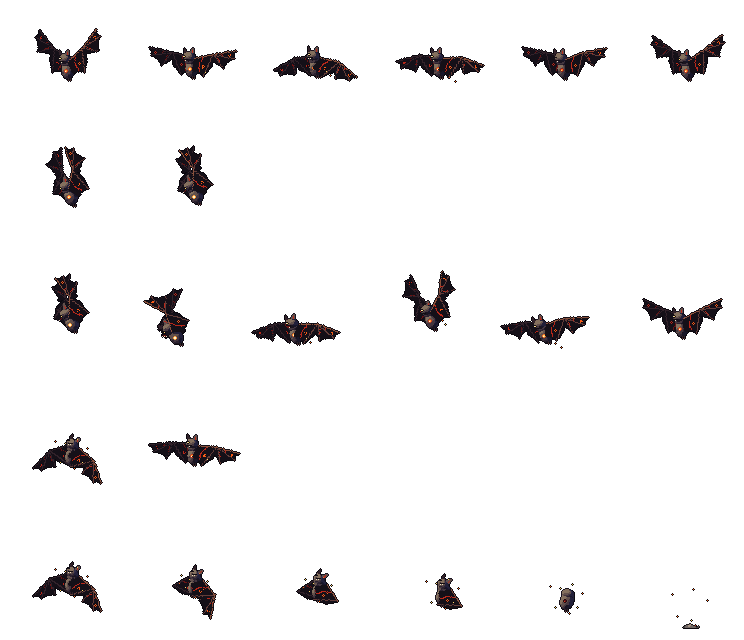
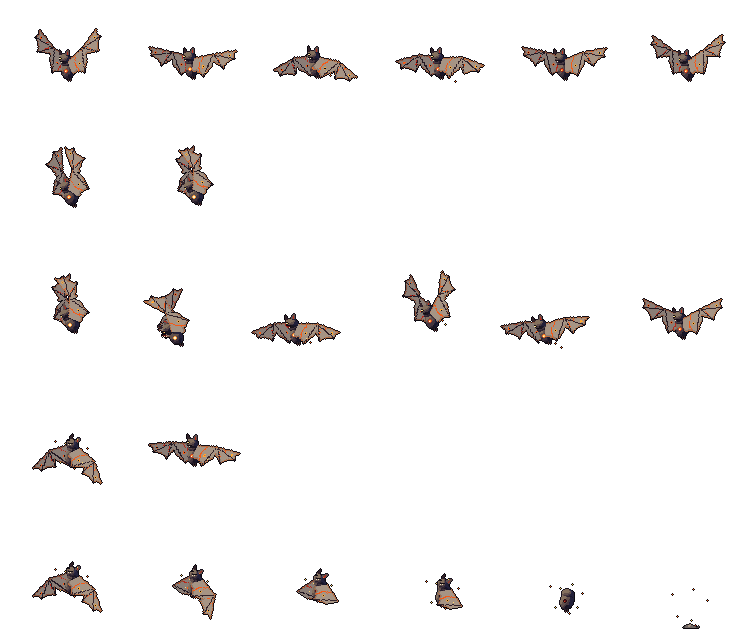
art: F2-CRIA3 — murciélago de ceniza legible y puente al segundo reposo de la heroína
- cinder_bat: membrana en rampa de ceniza (pasos 7–8), canto cobrizo de 1 px y vetas de brasa emisiva; cuerpo
  y dedos oscuros. Contraste mínimo en 8 salas: 0,000–0,075 → 0,125–0,170. Saturación frente a flame_moth:
  0,18 / 0,56 (se distinguen en el mismo encuentro). Decisión de dirección: ceniza, no cuero cálido.
- fogonera: shoulder_in / shoulder_out (2 f) para _bridge(); deja de usarse windup. 74 px + moño.
Evidencia y diario en docs/reviews/v04/personajes/f2_cria3/.

Claude-Session: https://claude.ai/code/session_01QNUS8YfdZMMBUQPTLseeFn

diff --git a/docs/reviews/v04/personajes/f2_cria3/diario.md b/docs/reviews/v04/personajes/f2_cria3/diario.md
@@ -1,0 +1,81 @@
+# F2-CRIA3 · Diario (C13 `cinder_bat` contra la sala, C15 puente del 2.º reposo)
+
+Nube Linux, Godot 4.7.2, xvfb. Archivos: `scripts/art/defs/creatures/cinder_bat.gd`, `scripts/art/defs/hero/fogonera.gd`,
+su horneado (`assets/baked/creatures/cinder_bat*`, `assets/baked/hero/fogonera*`) y `tests/art/out/qa/{cinder_bat,fogonera}_qa.png`.
+
+## 1 · `cinder_bat`: contraste ≥ 0,10 en todos los fotogramas de reposo
+
+### Método (el de F2-SALA, sin cambios)
+`medir_bat.gd.txt` es el script de F2-SALA (`medir_sala.gd`) reducido al murciélago: `BgAct1.build` de las 12 variantes con
+las capas en vista previa (luz dinámica 0); cada fotograma de `idle` horneado centrado como `FighterView` (centro del
+rectángulo usado del f0, socket `ground` en y 264); `test_da.thumbnail_separation` (gris a 1/4, anillo de 2 celdas), sin placa
+de PV; mínimo sobre las 8 salas normales en cada hueco 350/396/460/466/540/572. El «antes» reproduce el diario de F2-SALA
+(0,075 en 350; 0,000–0,010 en el resto).
+
+### Por qué no bastaba un canto sobre la membrana oscura
+Desglose (figura frente a anillo, sala normal v0): en 350 el anillo es el arco claro (0,21–0,25) y la figura 0,137; en
+396–572 el anillo es el muro (0,10–0,14) y la figura 0,125–0,13. Una figura oscura necesitaría ≤ 0,02–0,04 en 396–572
+(imposible: la membrana ya estaba en `rock_soot` 1 y el contorno es 0,03). Una figura media no pasa en ninguno de los dos
+fondos. La única salida es una figura ≥ ~0,35, por encima del arco y del muro. Lo comprobé: un canto de 1 px sobre la
+membrana oscura (primera prueba) dejó 0,000–0,075, igual que antes.
+
+### Cambio (v2, tras la revisión de dirección: membrana de ceniza)
+La v1 (cuero claro cálido, `leather` 5/6) pasaba la métrica (0,118) pero dirección la rechazó: se acercaba en tono a
+`flame_moth`, que comparte encuentro, y perdía el carácter de «ceniza». La v2:
+- **Membrana gris ceniza claro** (ranura `membrane` → `ash`, rampa neutra): ala cercana paso 8 con zona de fuga paso 7; ala
+  lejana paso 7. Es cambio de material de la pieza, no un recoloreado para crear contenido.
+- **Canto cálido de 1 px**: `_rim()` pasa a `r` todo píxel de membrana que toca aire (4 vecinos, sin contar los bordes de
+  la losa, que son uniones). Canto y borde de ataque en `rock_soot` 7 (cercana) y 6 (lejana), cobre: el borde quemado.
+  El contorno exterior sigue siendo el sel-out del motor; no hay contorno negro añadido.
+- **Brasa emisiva**: las 2–3 vetas por tramo (`hot` 3 en la cercana, 2 en la lejana) y el labio del agujero quemado
+  (`hot` 4/3), como en las losas de F2-CRIA2b.
+- **Cuerpo y dedos oscuros**: `soot` en el cuerpo, la cara y el núcleo sin cambios; dedos `rock_soot` 3 (cercana) y 2.
+  Membrana ≈ 0,50–0,59 frente a cuerpo ≈ 0,15.
+- Silueta, losas `IN`/`OUT`, huesos, poses y lienzo: sin cambios. Atlas completo revisado (`atlas_cinder_bat.png`).
+
+### Medida (mínimo de 8 salas normales, sin placa)
+| Hueco | 350 | 396 | 460 | 466 | 540 | 572 |
+|---|---|---|---|---|---|---|
+| Antes (F2-CRIA2b) | 0,075 | 0,000 | 0,010 | 0,010 | 0,000 | 0,001 |
+| v1 cuero (rechazada) | 0,118 | 0,220 | 0,246 | 0,244 | 0,232 | 0,235 |
+| **v2 ceniza** | **0,125** | **0,230** | **0,258** | **0,253** | **0,244** | **0,247** |
+
+Por fotograma (mínimo sobre salas y huecos), antes → v2: f0–f5 0,000 · 0,000 · 0,011 · 0,006 · 0,001 · 0,001 →
+**0,170 · 0,146 · 0,125 · 0,146 · 0,136 · 0,162**. Salas de tiro: 0,015 → 0,173. Iteraciones: canto sobre la membrana
+oscura 0,000; `rock_soot` 6 0,024; cuero 5/4 0,090; cuero 5/5 0,118; ceniza 7/6 0,101 (justa); ceniza 8/7 (final) 0,125.
+
+### Distinción frente a `flame_moth` (`tono_polilla.txt`)
+Píxeles de ala por encaje exacto con los colores de su rampa (murciélago: `ash` 6–8 + canto `rock_soot` 6–7; polilla:
+`cloth`). Tono medio circular y saturación HLS media.
+| | Tono | Saturación |
+|---|---|---|
+| Polilla (horneado y captura 18b) | 4° (rojo) | 0,56 |
+| Murciélago v1 cuero (horneado) | 26° | 0,46 (Δ 0,11) |
+| Murciélago v2 ceniza (horneado / captura 18b) | 24° | **0,18 (Δ 0,38)** |
+El tono medio apenas cambia (Δ 20°), porque la ceniza es un gris levemente cálido y el canto cobrizo cuenta en la media.
+La distinción la da la saturación: la diferencia con la polilla pasa de 0,11 a 0,38. Visto en `oscuro_cuero_ceniza_18b.png`
+(arriba F2-CRIA2b, en medio v1 y abajo v2), el murciélago se ve gris y la polilla, roja.
+
+## 2 · `fogonera`: `shoulder_in` / `shoulder_out`
+- `fighter_view._bridge()` pide exactamente `shoulder_in` y `shoulder_out`; si no existen usa `windup`. Las animaciones no
+  hacen bucle porque `_on_anim_finished` encadena `idle_shoulder` (entrada) o `idle` (salida).
+- Poses nuevas en `J`: `sh_lift` (mano a la cintura, martillo alzado por DELANTE en diagonal, peso −1 px) y `sh_up`
+  (martillo vertical junto a la cara, sin taparla; mano en `knuckles`). `shoulder_in` = lift 90 ms → up 100 ms;
+  `shoulder_out` = up 100 ms → lift 90 ms, con moño y bufanda en sentido contrario. El arco va por delante, al revés que
+  `windup` (por detrás y echada atrás), así que no se lee como amago de golpe.
+- Sin tocar el resto: 74 px + moño, `idle`, `idle_shoulder`, ataque, muerte. Tira en `fogonera_puente_hombro.png`
+  (idle → in f0, f1 → idle_shoulder → out f0, f1 → idle → windup, para comparar).
+
+## Evidencia
+- `tools/qa.sh bake --only=cinder_bat` y `--only=fogonera`: 1 horneada cada uno, 0 errores; salas al día.
+- `tools/qa.sh all`: QA 1745/0, arte 5 suites/0.
+- Recorrido `SHOTS_DIR=/tmp/claude-0/shots_cria3`: SMOKE OK; sólo `ERR_CANT_OPEN` (audio).
+- `antes_despues_18b.png` (arriba: recorrido de F2-SALA; abajo: v2), `oscuro_cuero_ceniza_18b.png`, `gris_1de4_18b.png`
+  (gris a 1/4 ×3, arriba antes), `combate_18b.png`, `hoja_*_qa.png`, `atlas_cinder_bat.png`, `fogonera_puente_hombro.png`,
+  `medir_bat.gd.txt`, `tono_polilla.txt`. La v2 se volvió a hornear sólo con `--only=cinder_bat`, y `fogonera` no cambió.
+
+## Pendiente / no comprobado
+- No hay en `Palette` una rampa gris fría lo bastante clara: `coal` y `smoke` llegan como máximo a ≈ 0,36 y no pasan en
+  x 350. Por eso la ceniza es neutra-cálida y no fría.
+- El puente del hombro no sale en el recorrido (salta cada 6–10 s en reposo): revisado sólo en la tira horneada, no en juego.
+- Con placa de PV no medido (la métrica oficial es sin placa).
